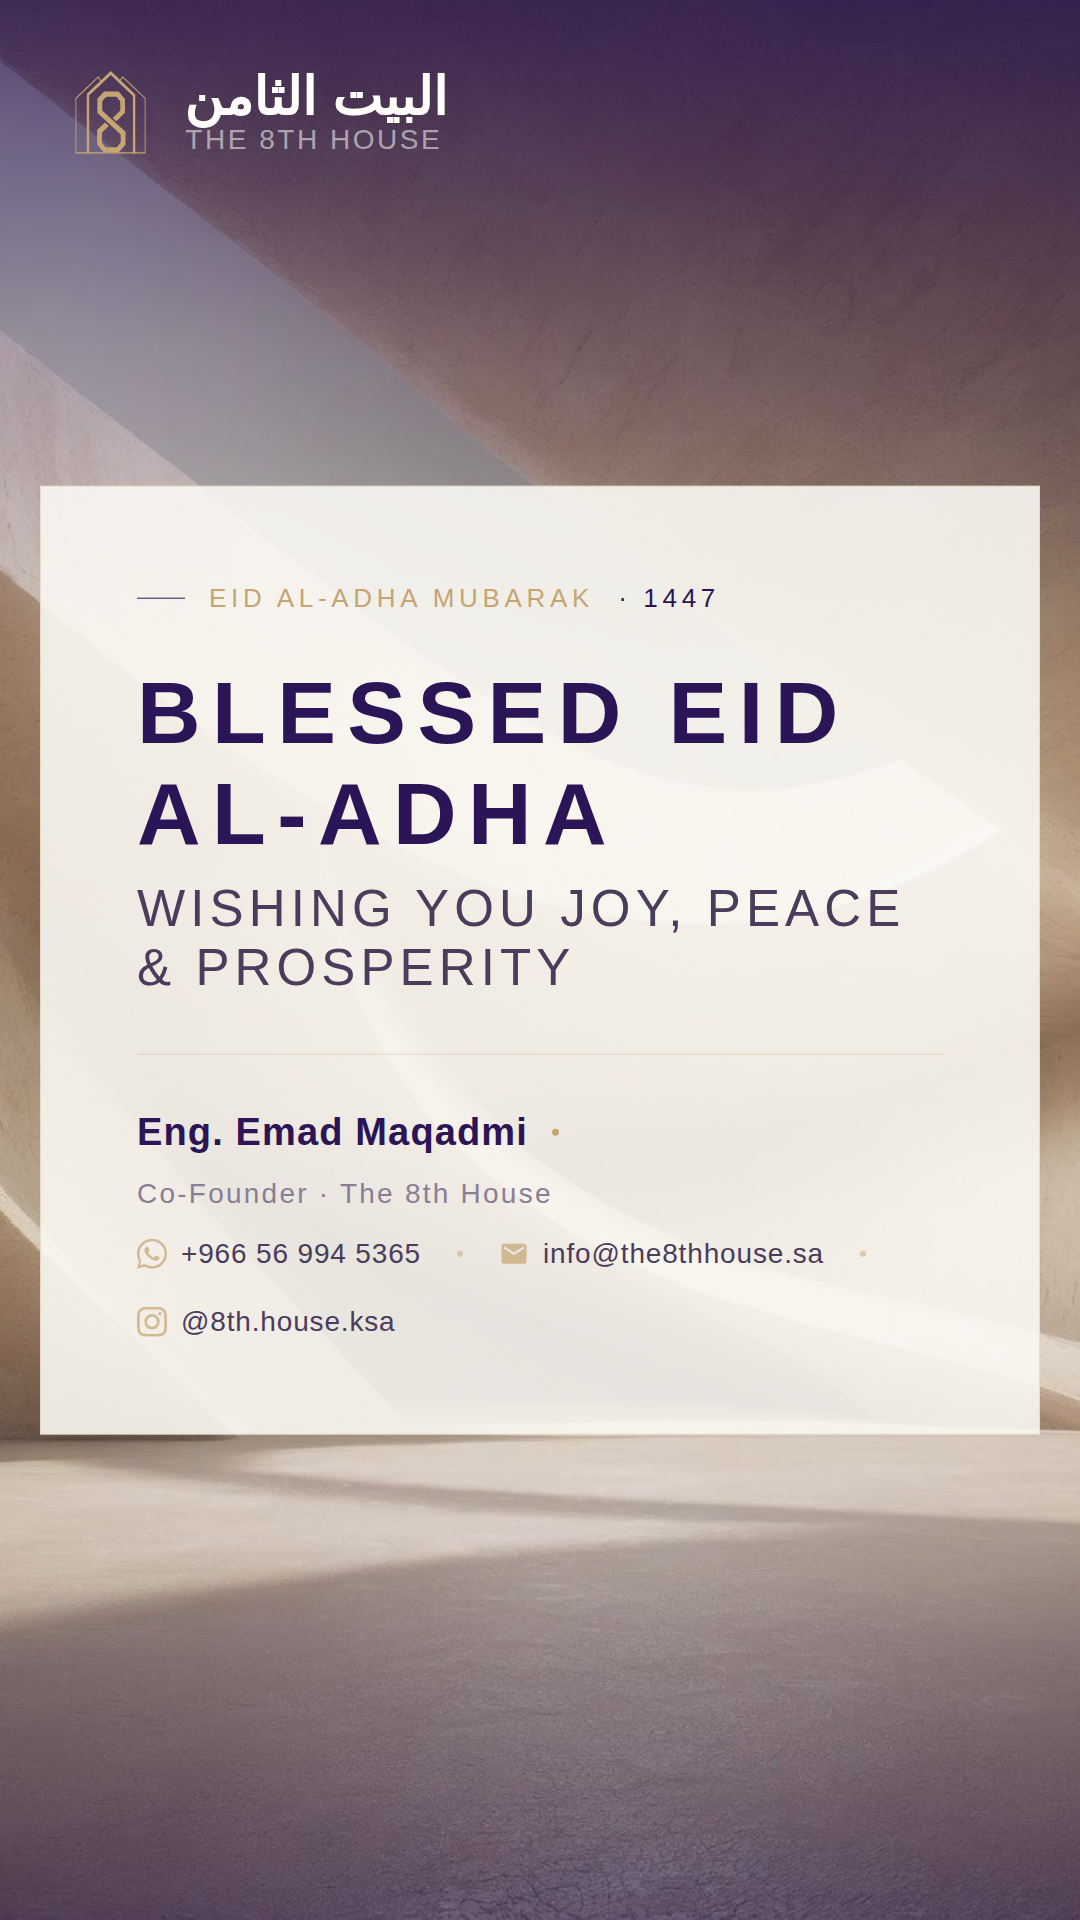
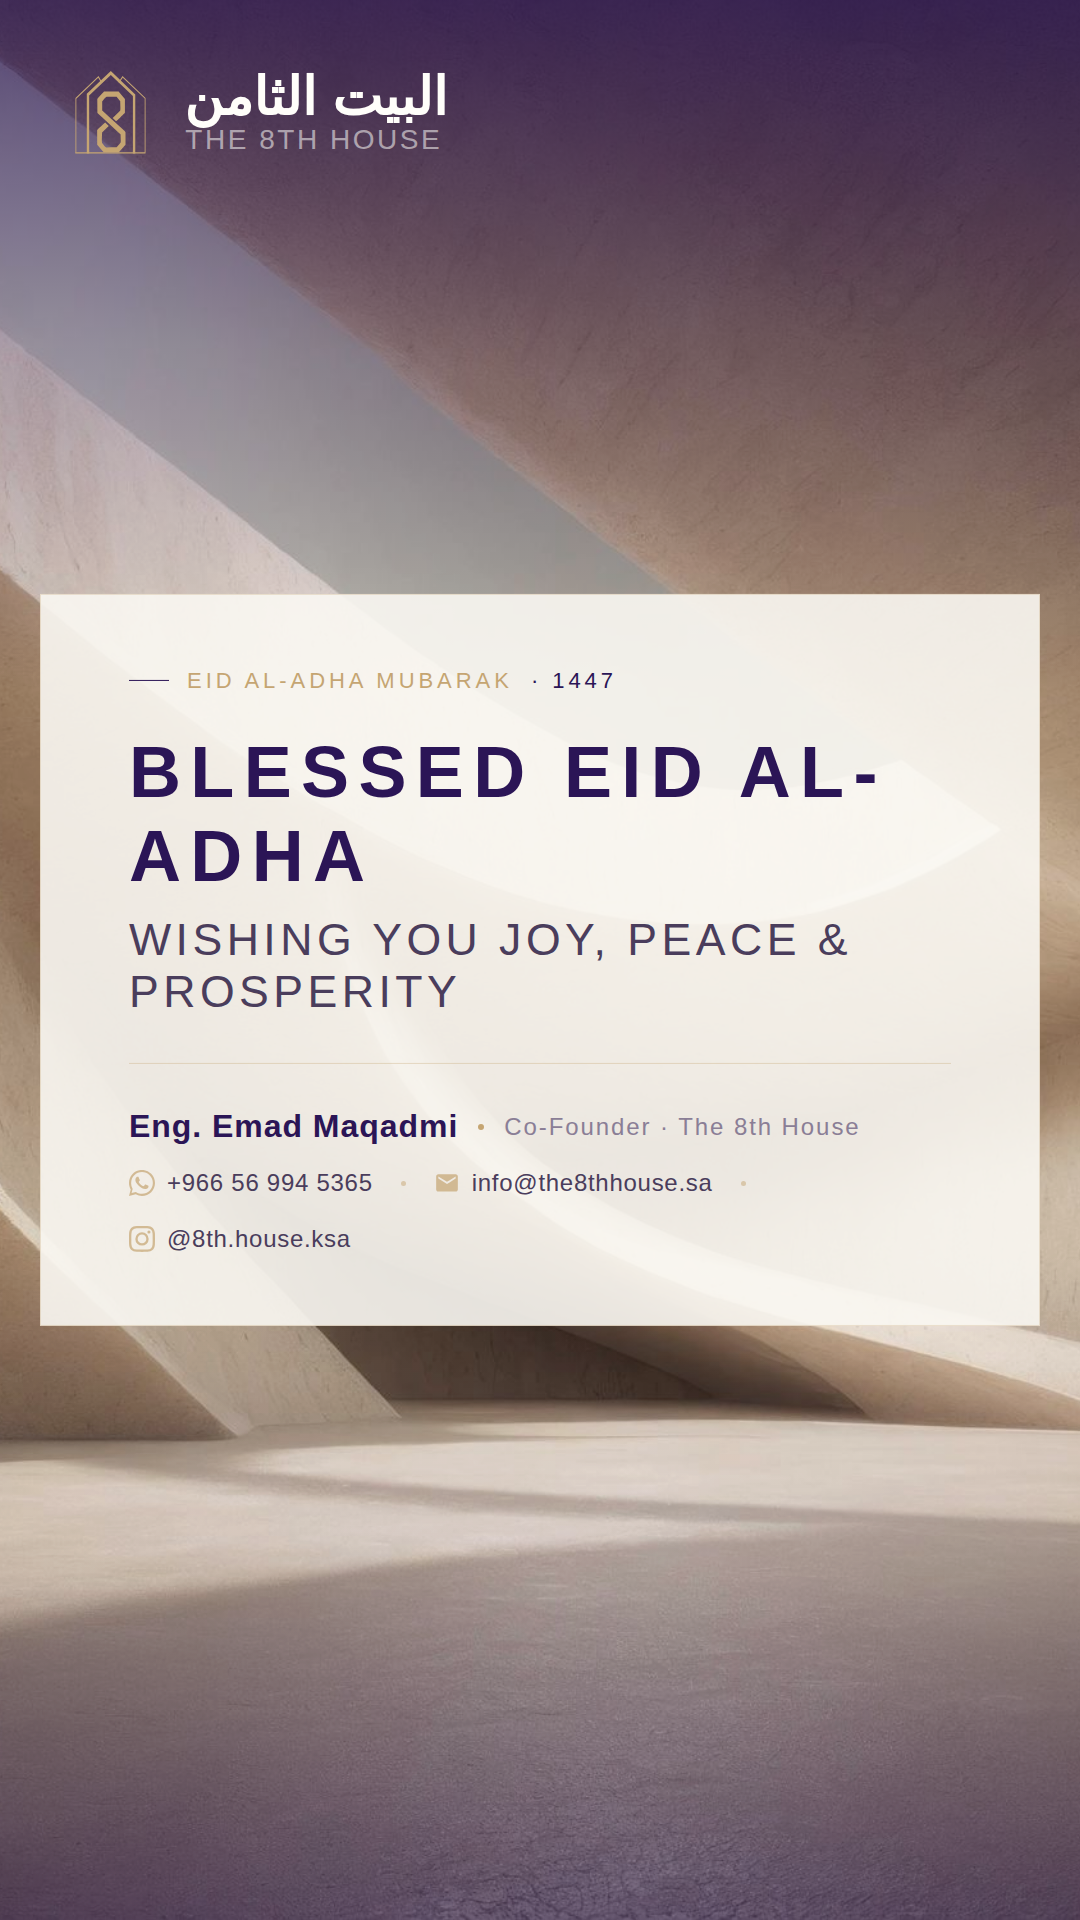
Rebalance card text sizes — readable on mobile, proportions preserved
https://claude.ai/code/session_01CSSTbXjfUtb6qJ2tW8hjCv

diff --git a/eid-cards.html b/eid-cards.html
@@ -133,7 +133,7 @@
     .card--en .card__nav { right: auto; left: 72px; direction: ltr; }
     .card--en .card__nav .nav__logo { transform-origin: top left; }
 
-    /* ── body (centered panel) — sized for 1080px card ── */
+    /* ── body (centered panel) ── */
     .card__body {
       position: absolute;
       top: 50%;
@@ -141,89 +141,55 @@
       left: 40px;
       right: 40px;
       z-index: 2;
-      padding: 96px 96px;
+      padding: 72px 88px;
       background: rgba(250,247,242,0.90);
       border: 1px solid rgba(197,165,114,0.28);
       direction: rtl;
     }
 
-    /* label row */
+    /* label */
     .card__lbl {
       display: inline-flex;
       align-items: center;
-      gap: 24px;
-      font-size: 26px;
+      gap: 18px;
+      font-size: 22px;
       letter-spacing: .18em;
       text-transform: uppercase;
       color: var(--purple-royal);
-      margin-bottom: 48px;
+      margin-bottom: 36px;
     }
-    .card__lbl-rule {
-      display: inline-block;
-      width: 48px;
-      height: 1px;
-      background: var(--purple-royal);
-    }
+    .card__lbl-rule { display: inline-block; width: 40px; height: 1px; background: var(--purple-royal); }
     .card__lbl-city { color: var(--gold); }
 
     /* main title */
     .card__title {
-      font-size: 88px;
+      font-size: 72px;
       font-weight: 300;
-      line-height: 1.15;
+      line-height: 1.18;
       letter-spacing: .01em;
       color: var(--text-primary);
       margin-bottom: 0;
       display: flex;
       flex-direction: column;
-      gap: .18em;
+      gap: .2em;
     }
-    .card__title-main {
-      color: var(--purple-royal);
-      font-weight: 700;
-      font-size: 1em;
-    }
-    .card__title-rest {
-      color: var(--text-secondary);
-      font-size: .58em;
-      font-weight: 300;
-      letter-spacing: .025em;
-    }
+    .card__title-main { color: var(--purple-royal); font-weight: 700; font-size: 1em; }
+    .card__title-rest { color: var(--text-secondary); font-size: .62em; font-weight: 300; letter-spacing: .025em; }
 
-    /* horizontal divider */
-    .card__div {
-      width: 100%;
-      height: 1px;
-      background: rgba(197,165,114,.35);
-      margin: 56px 0;
-    }
+    /* divider */
+    .card__div { width: 100%; height: 1px; background: rgba(197,165,114,.35); margin: 44px 0; }
 
-    /* sender row */
-    .card__sender {
-      display: flex;
-      align-items: center;
-      gap: 24px;
-      flex-wrap: wrap;
-      margin-bottom: 28px;
-    }
-    .card__sender-name  { font-size: 38px; font-weight: 700; color: var(--purple-royal); letter-spacing: .03em; }
-    .card__sender-dot   { width: 7px; height: 7px; border-radius: 50%; background: var(--gold); flex-shrink: 0; }
-    .card__sender-title { font-size: 28px; font-weight: 300; color: var(--text-muted); letter-spacing: .08em; }
+    /* sender */
+    .card__sender { display: flex; align-items: center; gap: 20px; flex-wrap: wrap; margin-bottom: 24px; }
+    .card__sender-name  { font-size: 32px; font-weight: 700; color: var(--purple-royal); letter-spacing: .03em; }
+    .card__sender-dot   { width: 6px; height: 6px; border-radius: 50%; background: var(--gold); flex-shrink: 0; }
+    .card__sender-title { font-size: 24px; font-weight: 300; color: var(--text-muted); letter-spacing: .08em; }
 
-    /* contact row */
-    .card__contact { display: flex; align-items: center; gap: 36px; direction: ltr; flex-wrap: wrap; }
-    .card__ci {
-      display: flex;
-      align-items: center;
-      gap: 14px;
-      font-size: 28px;
-      font-weight: 300;
-      color: var(--text-secondary);
-      letter-spacing: .03em;
-      white-space: nowrap;
-    }
-    .card__ci svg { width: 30px; height: 30px; opacity: .7; flex-shrink: 0; }
-    .card__csep   { width: 6px; height: 6px; border-radius: 50%; background: rgba(197,165,114,.5); }
+    /* contact */
+    .card__contact { display: flex; align-items: center; gap: 28px; direction: ltr; flex-wrap: wrap; }
+    .card__ci { display: flex; align-items: center; gap: 12px; font-size: 24px; font-weight: 300; color: var(--text-secondary); letter-spacing: .03em; white-space: nowrap; }
+    .card__ci svg { width: 26px; height: 26px; opacity: .7; flex-shrink: 0; }
+    .card__csep   { width: 5px; height: 5px; border-radius: 50%; background: rgba(197,165,114,.5); }
 
     /* ══════════════════════════════════════════════
        ENGLISH variant
